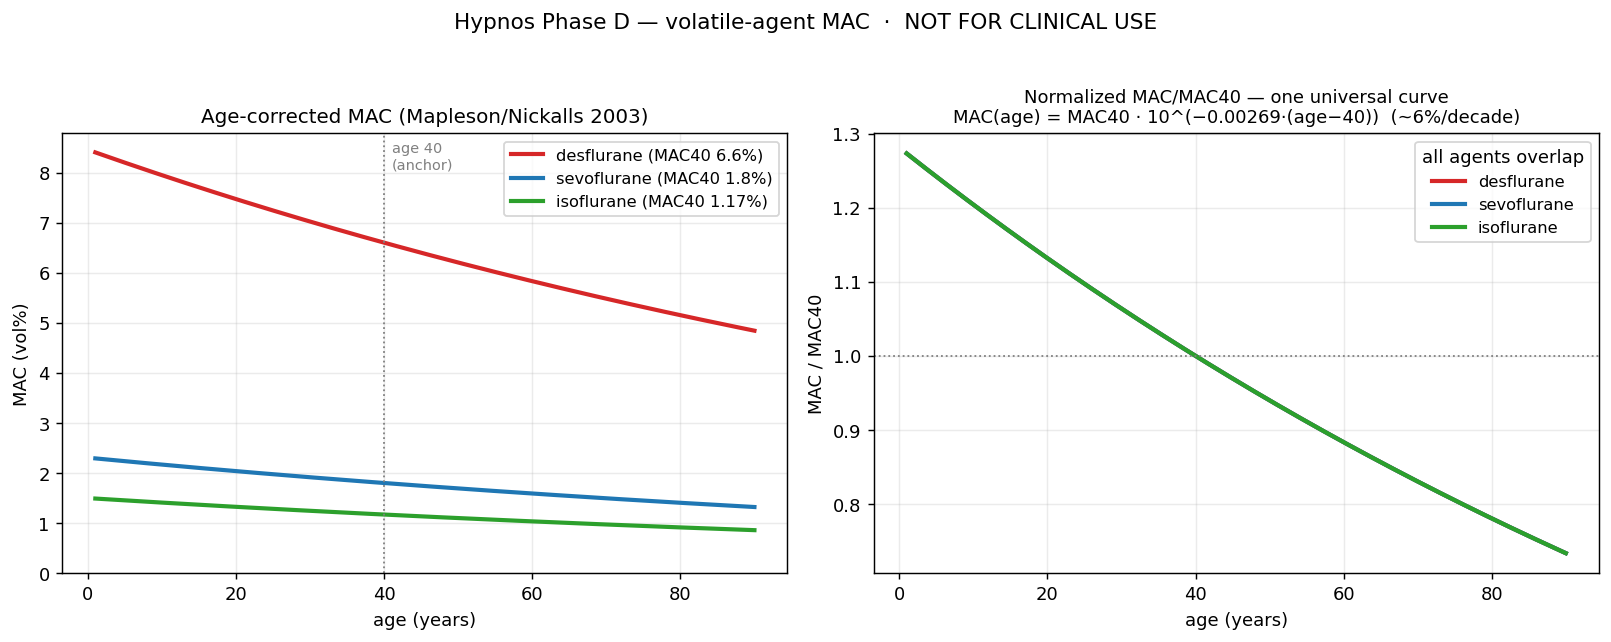
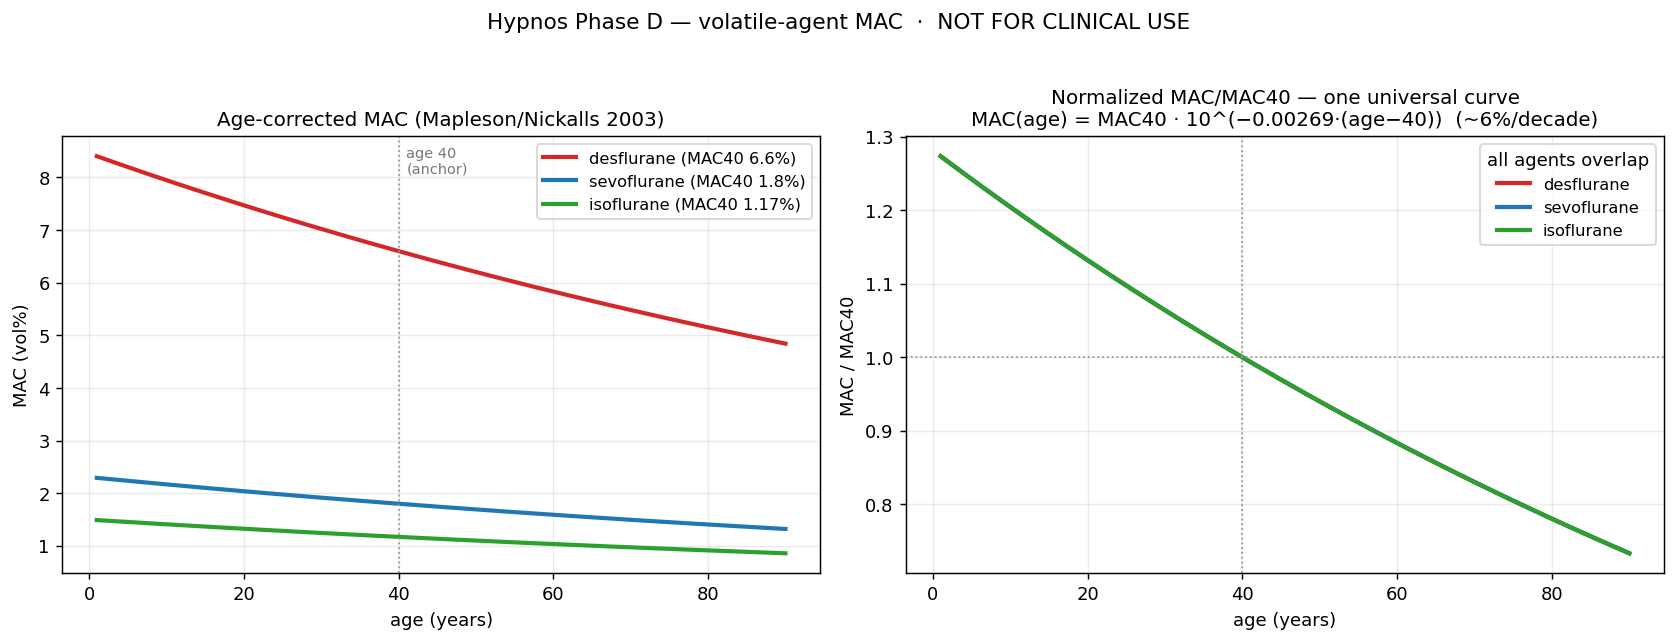
Make all README figures reproducible (fix a stale one) + wash-in figure
The spec/README claim everything is a deterministic projection of the dataset,
but scripts/regenerate.py only reproduced divergence.png — and even that was stale
(two models, not the committed three). synergy/pediatric/mac_age were orphaned
artifacts the script could not regenerate.

- regenerate.py now redraws every README figure from the live
  compare()/simulate()/kernels, in place into docs/images/. A figure can no longer
  silently rot out of sync with the data.
- Fixed a factually stale figure + claim: pediatric.png labelled
  "eleveld_2018 (kernel pending)" and the README said "only Paedfusor is
  in-envelope" — both predate the Eleveld kernel. The broad-envelope Eleveld
  (Tier A) covers a 6-year-old by design; figure + text now show both Eleveld and
  Paedfusor in-envelope, Marsh/Schnider as Tier-D pediatric extrapolations. (A
  better story: the general-purpose model correctly handles the child.)
- Dropped PK-only models (ce=0) from the effect-site divergence panel so they no
  longer draw a misleading flat line at zero.
- New washin.png — FA/FI curves + the λ→plateau mechanism — for the wash-in feature.
- test_figures.py (skips without matplotlib) regenerates all five figures to a temp
  dir and asserts each renders, enforcing the no-rot guarantee.

Full suite (160) + notebooks + export matrix + omex determinism green; dataset
validates. All five figures visually verified.

diff --git a/scripts/regenerate.py b/scripts/regenerate.py
@@ -10,7 +10,9 @@ not installed, so this script always runs the export half in CI.
 
 The dataset is the single source of truth; everything this script writes is a
 deterministic function of it (and of the dataset version). Re-running on the
-same dataset produces byte-identical exports.
+same dataset produces byte-identical exports, and every README figure is
+regenerated from the live dataset/kernels — so a figure can never silently rot
+out of sync with the data (e.g. when a kernel is implemented or a model added).
 """
 from __future__ import annotations
 
@@ -21,13 +23,25 @@ import numpy as np
 
 import hypnos
 from hypnos.export import FORMATS, bibtex, combine, csv_flat, export_model
+from hypnos.reference import alveolar_washin, greco_response_surface, mac_age_corrected
 
 ROOT = Path(__file__).resolve().parent.parent
 EXPORTS = ROOT / "exports"
-# Figures regenerate into exports/ (gitignored) so a run never clobbers the
-# curated, committed figures in docs/images/. Exports themselves are the
-# byte-deterministic reproducibility guarantee.
-IMAGES = EXPORTS / "figures"
+# Figures ARE deterministic projections of the dataset, exactly like the exports,
+# so they regenerate in place into the committed docs/images/ (the README's
+# figures) — driven by the live compare()/simulate()/kernels, never hand-drawn.
+IMAGES = ROOT / "docs" / "images"
+
+# Stable per-model colours so a model keeps its colour across figures.
+_COLORS = {
+    "eleveld_2018": "#2ca02c", "marsh_1991": "#1f77b4", "schnider_1998": "#d62728",
+    "paedfusor_2005": "#9467bd",
+}
+_DISCLAIMER = "NOT FOR CLINICAL USE"
+
+
+def _params(model) -> dict:
+    return {p.symbol: p.central for p in model.parameters}
 
 
 def regenerate_exports(ds) -> int:
@@ -53,6 +67,161 @@ def regenerate_exports(ds) -> int:
     return count
 
 
+def _fig_divergence(ds, plt) -> None:
+    """The headline: propofol effect-site, every eligible model, envelope-greyed."""
+    t = np.linspace(0, 60, 361)
+    sched = [("bolus", 0.0, "2 mg/kg"), ("infusion", 0.0, "6 mg/kg/h")]
+    fig, axes = plt.subplots(1, 2, figsize=(13, 4.8), sharey=True)
+    for ax, patient, title in [
+        (axes[0], dict(age=72, weight=60, height=162, sex="F"), "Elderly patient (72 y, 60 kg, 162 cm, F)"),
+        (axes[1], dict(age=40, weight=140, height=172, sex="M"), "Obese patient (40 y, 140 kg, 172 cm, M)"),
+    ]:
+        cmp = hypnos.compare(ds, drug="propofol", patient=patient, schedule=sched, t=t)
+        # effect-site panel: only models that actually carry a ke0 link (a PK-only
+        # model has ce ≡ 0 and would draw a misleading flat line at zero).
+        for r in sorted(cmp.included, key=lambda r: r.model_id):
+            if float(np.max(r.ce)) <= 0:
+                continue
+            name = r.model_id.split(".")[-1]
+            ax.plot(t, r.ce, color=_COLORS.get(name, "#333"), lw=2.3, label=f"{name}  (tier {r.tier})")
+        for e in cmp.excluded:
+            if float(np.max(e["result"].ce)) <= 0:
+                continue
+            name = e["model_id"].split(".")[-1]
+            reason = "out of envelope" if any("ENVELOPE" in x for x in e["reasons"]) else "greyed"
+            ax.plot(t, e["result"].ce, color="#aaa", lw=2, ls="--",
+                    label=f"{name}  (tier {e['tier']} — greyed: {reason})")
+        d = cmp.divergence.get("ce", {})
+        sub = (f"peak divergence {d['max_abs']:.1f} µg/mL ({100*d['max_rel']:.0f}%)"
+               if d else "single model in envelope")
+        ax.set_title(f"{title}\n{sub}", fontsize=11)
+        ax.set_xlabel("time (min)"); ax.legend(fontsize=8.5); ax.grid(alpha=0.25)
+    axes[0].set_ylabel("propofol effect-site conc. (µg/mL)")
+    fig.suptitle("Hypnos model-divergence view — propofol effect-site (Marsh · Schnider · Eleveld)"
+                 f"  ·  {_DISCLAIMER}", y=1.02)
+    fig.tight_layout(); fig.savefig(IMAGES / "divergence.png", dpi=130, bbox_inches="tight")
+    plt.close(fig)
+
+
+def _fig_synergy(ds, plt) -> None:
+    """Propofol-remifentanil hypnotic synergy: the time course + the Greco surface."""
+    t = np.linspace(0, 30, 181)
+    patient = dict(age=40, weight=70, height=170, sex="M")
+    prop = [("bolus", 0.0, "2 mg/kg"), ("infusion", 0.0, "6 mg/kg/h")]
+    remi = [("bolus", 0.0, "1 mcg/kg"), ("infusion", 0.0, "0.25 mcg/kg/min")]
+    alone = hypnos.simulate(ds, "hypnotics_iv.propofol.schnider_1998", patient=patient,
+                            schedule=prop, t=t, pd_model="pd_effect.propofol.bis_sigmoid")
+    ir = hypnos.simulate_interaction(ds, "interactions.propofol_remifentanil.greco_bis",
+                                     pk_a="hypnotics_iv.propofol.schnider_1998",
+                                     pk_b="opioids.remifentanil.minto_1997", patient=patient,
+                                     schedule_a=prop, schedule_b=remi, t=t)
+
+    fig, (axL, axR) = plt.subplots(1, 2, figsize=(13, 4.8))
+    axL.plot(t, alone.effect, color="#1f77b4", lw=2.3, label=f"propofol alone (tier {alone.tier})")
+    axL.plot(t, ir.effect, color="#d62728", lw=2.3, label=f"propofol + remifentanil (tier {ir.tier})")
+    axL.axhline(50, color="#888", ls=":", lw=1); axL.text(t[-1], 51, "BIS 50", ha="right", color="#888")
+    axL.set_title("Hypnotic synergy — same propofol dose, ± remifentanil", fontsize=11)
+    axL.set_xlabel("time (min)"); axL.set_ylabel("BIS index"); axL.set_ylim(0, 95)
+    axL.legend(fontsize=9); axL.grid(alpha=0.25)
+
+    sp = _params(ds["interactions.propofol_remifentanil.greco_bis"])
+    cp = np.linspace(0, 10, 160)          # propofol Ce, ug/mL
+    cr_ng = np.linspace(0, 40, 160)       # remifentanil Ce, ng/mL
+    CP, CR = np.meshgrid(cp, cr_ng)
+    bis = greco_response_surface(CP, CR / 1000.0, E0=sp["E0"], Emax=sp["Emax"],
+                                 Ce50_a=sp["Ce50_prop"], Ce50_b=sp["Ce50_remi"],
+                                 alpha=sp["alpha"], gamma=sp["gamma"])
+    cf = axR.contourf(CP, CR, bis, levels=12, cmap="viridis_r")
+    cs = axR.contour(CP, CR, bis, levels=[40, 50, 60], colors="white", linewidths=1.3)
+    axR.clabel(cs, fmt=lambda v: f"BIS {v:.0f}", fontsize=8)
+    fig.colorbar(cf, ax=axR, label="BIS index")
+    axR.set_title("Greco response surface (illustrative, tier C)", fontsize=11)
+    axR.set_xlabel("propofol Ce (µg/mL)"); axR.set_ylabel("remifentanil Ce (ng/mL)")
+    fig.suptitle(f"Hypnos Phase B — propofol–remifentanil interaction  ·  {_DISCLAIMER}", y=1.02)
+    fig.tight_layout(); fig.savefig(IMAGES / "synergy.png", dpi=130, bbox_inches="tight")
+    plt.close(fig)
+
+
+def _fig_pediatric(ds, plt) -> None:
+    """Pediatric propofol: who is in-envelope for a child, who is a Tier-D extrapolation."""
+    t = np.linspace(0, 30, 181)
+    patient = dict(age=6, weight=20, height=115, sex="M")
+    sched = [("bolus", 0.0, "2 mg/kg"), ("infusion", 0.0, "6 mg/kg/h")]
+    cmp = hypnos.compare(ds, drug="propofol", patient=patient, schedule=sched, t=t)
+    fig, ax = plt.subplots(figsize=(11, 5.4))
+    for r in sorted(cmp.included, key=lambda r: r.model_id):
+        name = r.model_id.split(".")[-1]
+        ax.plot(t, r.cp, color=_COLORS.get(name, "#2ca02c"), lw=2.6,
+                label=f"{name}  (tier {r.tier}, IN envelope)")
+    for e in cmp.excluded:
+        name = e["model_id"].split(".")[-1]
+        ped = any("PEDIATRIC" in x for x in e["reasons"])
+        tag = "pediatric extrapolation" if ped else "out of envelope"
+        ax.plot(t, e["result"].cp, lw=2, ls="--",
+                label=f"{name}  (tier {e['tier']} — greyed: {tag})")
+    ax.set_title("Hypnos Phase C — pediatric propofol (6 y, 20 kg child)\n"
+                 "Paedfusor and the broad-envelope Eleveld cover the child; the adult-only "
+                 "models are explicit Tier-D extrapolations", fontsize=11)
+    ax.set_xlabel("time (min)"); ax.set_ylabel("propofol plasma conc. (µg/mL)")
+    ax.legend(fontsize=9); ax.grid(alpha=0.25)
+    fig.text(0.5, -0.02, f"{_DISCLAIMER} — research / education / simulation only",
+             ha="center", color="#c0392b", fontsize=9)
+    fig.tight_layout(); fig.savefig(IMAGES / "pediatric.png", dpi=130, bbox_inches="tight")
+    plt.close(fig)
+
+
+def _fig_mac_age(ds, plt) -> None:
+    """Volatile MAC age-correction: absolute and the one universal normalized curve."""
+    ages = np.linspace(1, 90, 200)
+    agents = [("desflurane", "#d62728"), ("sevoflurane", "#1f77b4"), ("isoflurane", "#2ca02c")]
+    fig, (axL, axR) = plt.subplots(1, 2, figsize=(13, 4.8))
+    for name, color in agents:
+        mac40 = _params(ds[f"volatiles.{name}.mac"])["MAC40"]
+        mac = np.array([mac_age_corrected(mac40, a) for a in ages])
+        axL.plot(ages, mac, color=color, lw=2.3, label=f"{name} (MAC40 {mac40:g}%)")
+        axR.plot(ages, mac / mac40, color=color, lw=2.3, label=name)
+    for ax in (axL, axR):
+        ax.axvline(40, color="#999", ls=":", lw=1); ax.set_xlabel("age (years)"); ax.grid(alpha=0.25)
+    axL.text(41, axL.get_ylim()[1] * 0.92, "age 40\n(anchor)", color="#777", fontsize=8)
+    axL.set_ylabel("MAC (vol%)"); axL.set_title("Age-corrected MAC (Mapleson/Nickalls 2003)", fontsize=11)
+    axL.legend(fontsize=9)
+    axR.axhline(1.0, color="#999", ls=":", lw=1); axR.set_ylabel("MAC / MAC40")
+    axR.set_title("Normalized MAC/MAC40 — one universal curve\n"
+                  "MAC(age) = MAC40 · 10^(−0.00269·(age−40))  (~6%/decade)", fontsize=11)
+    axR.legend(fontsize=9, title="all agents overlap")
+    fig.suptitle(f"Hypnos Phase D — volatile-agent MAC  ·  {_DISCLAIMER}", y=1.02)
+    fig.tight_layout(); fig.savefig(IMAGES / "mac_age.png", dpi=130, bbox_inches="tight")
+    plt.close(fig)
+
+
+def _fig_washin(ds, plt) -> None:
+    """Inhalational wash-in (FA/FI): solubility sets the speed, straight from blood:gas."""
+    t = np.linspace(0, 10, 240)
+    agents = [("desflurane", "#d62728"), ("nitrous_oxide", "#9467bd"),
+              ("sevoflurane", "#1f77b4"), ("isoflurane", "#2ca02c")]
+    fig, (axL, axR) = plt.subplots(1, 2, figsize=(13, 4.8))
+    lam_pts, plat_pts = [], []
+    for name, color in agents:
+        lam = _params(ds[f"volatiles.{name}.mac"])["blood_gas"]
+        fa_fi, plateau, tau = alveolar_washin(lam, t)
+        axL.plot(t, fa_fi, color=color, lw=2.3, label=f"{name} (λ {lam:g})")
+        axL.axhline(plateau, color=color, ls=":", lw=1, alpha=0.6)
+        lam_pts.append(lam); plat_pts.append(plateau)
+        axR.scatter([lam], [plateau], color=color, s=70, zorder=3)
+        axR.annotate(name, (lam, plateau), textcoords="offset points", xytext=(8, 4), fontsize=9, color=color)
+    axL.set_title("Alveolar wash-in FA/FI(t) — single-compartment, standard ventilation", fontsize=11)
+    axL.set_xlabel("time (min)"); axL.set_ylabel("FA / FI"); axL.set_ylim(0, 0.8)
+    axL.legend(fontsize=9, title="lower λ = faster"); axL.grid(alpha=0.25)
+    order = np.argsort(lam_pts)
+    axR.plot(np.array(lam_pts)[order], np.array(plat_pts)[order], color="#888", lw=1, ls="--", zorder=1)
+    axR.set_title("Solubility sets the wash-in 'knee'\nhigher blood:gas λ → lower early FA/FI plateau", fontsize=11)
+    axR.set_xlabel("blood:gas partition coefficient λ"); axR.set_ylabel("early FA/FI plateau")
+    axR.grid(alpha=0.25)
+    fig.suptitle(f"Hypnos Phase D — inhalational wash-in (FA/FI uptake)  ·  {_DISCLAIMER}", y=1.02)
+    fig.tight_layout(); fig.savefig(IMAGES / "washin.png", dpi=130, bbox_inches="tight")
+    plt.close(fig)
+
+
 def regenerate_figures(ds) -> bool:
     try:
         import matplotlib
@@ -62,33 +231,12 @@ def regenerate_figures(ds) -> bool:
         print("figures: matplotlib not installed; skipped (pip install matplotlib)")
         return False
     IMAGES.mkdir(parents=True, exist_ok=True)
-    t = np.linspace(0, 60, 361)
-    sched = [("bolus", 0.0, "2 mg/kg"), ("infusion", 0.0, "6 mg/kg/h")]
-
-    # 1) divergence (elderly vs obese)
-    fig, axes = plt.subplots(1, 2, figsize=(12, 4.6), sharey=True)
-    colors = {"marsh_1991": "#1f77b4", "schnider_1998": "#d62728"}
-    for ax, patient, title in [
-        (axes[0], dict(age=72, weight=60, height=162, sex="F"), "Elderly (72 y, 60 kg, F)"),
-        (axes[1], dict(age=40, weight=140, height=172, sex="M"), "Obese (40 y, 140 kg, M)"),
-    ]:
-        cmp = hypnos.compare(ds, drug="propofol", patient=patient, schedule=sched, t=t)
-        for r in cmp.included:
-            ax.plot(t, r.ce, color=colors.get(r.model_id.split(".")[-1], "#333"), lw=2.2,
-                    label=f"{r.model_id.split('.')[-1]} (tier {r.tier})")
-        for e in cmp.excluded:
-            ax.plot(t, e["result"].ce, color="#bbb", lw=2, ls="--",
-                    label=f"{e['model_id'].split('.')[-1]} (tier {e['tier']}, greyed)")
-        d = cmp.divergence.get("ce", {})
-        sub = f"peak div {d.get('max_abs',0):.1f} ug/mL" if d else "single model"
-        ax.set_title(f"{title}\n{sub}", fontsize=11)
-        ax.set_xlabel("time (min)"); ax.legend(fontsize=8); ax.grid(alpha=0.25)
-    axes[0].set_ylabel("propofol effect-site (ug/mL)")
-    fig.suptitle("Hypnos model-divergence view  ·  NOT FOR CLINICAL USE", y=1.02)
-    fig.tight_layout(); fig.savefig(IMAGES / "divergence.png", dpi=130, bbox_inches="tight")
-    plt.close(fig)
-
-    print(f"figures: regenerated divergence.png in {IMAGES}/ (curated docs/images left untouched)")
+    _fig_divergence(ds, plt)
+    _fig_synergy(ds, plt)
+    _fig_pediatric(ds, plt)
+    _fig_mac_age(ds, plt)
+    _fig_washin(ds, plt)
+    print(f"figures: regenerated divergence, synergy, pediatric, mac_age, washin -> {IMAGES}/")
     return True
 
 

diff --git a/python/tests/test_figures.py b/python/tests/test_figures.py
@@ -1,0 +1,43 @@
+"""Smoke test for the figure regeneration in scripts/regenerate.py.
+
+The figures are deterministic projections of the dataset/kernels — the same
+guarantee as the exports — so they must regenerate from the live data without
+hand-editing. This exercises every figure generator (catching API drift that
+would otherwise silently rot a README figure). matplotlib lives in the
+``notebooks`` extra, so the test skips where it is not installed.
+"""
+import importlib.util
+from pathlib import Path
+
+import pytest
+
+pytest.importorskip("matplotlib")
+
+import hypnos
+
+ROOT = Path(__file__).resolve().parents[2]
+_REGEN = ROOT / "scripts" / "regenerate.py"
+
+
+def _load_regen():
+    spec = importlib.util.spec_from_file_location("hypnos_regenerate", _REGEN)
+    mod = importlib.util.module_from_spec(spec)
+    spec.loader.exec_module(mod)
+    return mod
+
+
+def test_all_figures_regenerate(tmp_path, monkeypatch):
+    import matplotlib
+    matplotlib.use("Agg")
+
+    regen = _load_regen()
+    monkeypatch.setattr(regen, "IMAGES", tmp_path)   # never clobber the committed figures
+    ds = hypnos.load()
+    assert regen.regenerate_figures(ds) is True
+
+    expected = {"divergence.png", "synergy.png", "pediatric.png", "mac_age.png", "washin.png"}
+    produced = {p.name for p in tmp_path.glob("*.png")}
+    assert expected <= produced
+    # every figure is a non-trivial PNG (renders something, not an empty file)
+    for name in expected:
+        assert (tmp_path / name).stat().st_size > 5000

diff --git a/README.md b/README.md
@@ -79,12 +79,13 @@ Phase C widens coverage beyond the propofol/remifentanil core — a new drug cla
 
 ![Pediatric propofol model divergence](docs/images/pediatric.png)
 
-For a 6-year-old, 20 kg child, only Paedfusor is in-envelope. Marsh and Schnider are greyed out and explicitly labeled *pediatric extrapolations* — and the figure shows why that matters: the adult models, if you ignored the label, would predict roughly half (Schnider) to 1.5× (Marsh) the plasma concentration of the validated pediatric model. The labeling is symmetric: Paedfusor used in an adult is flagged as a pediatric-model extrapolation, and a 90-year-old outside dexmedetomidine's 18–70 y range is labeled a *geriatric extrapolation*.
+For a 6-year-old, 20 kg child, **two** models are in-envelope and they tell a clean story: the dedicated pediatric **Paedfusor** (Tier B), and the broad-envelope general-purpose **Eleveld** (Tier A), which is built to span neonate→elderly and so correctly *covers the child by design* — the payoff of a wide derivation envelope. The two adult-only models, **Marsh and Schnider**, are greyed out and explicitly labeled *pediatric extrapolations*: an adult model used in a child is not predictive, so it is floored to Tier D. The labeling is symmetric: Paedfusor used in an adult is flagged as a pediatric-model extrapolation, and a 90-year-old outside dexmedetomidine's 18–70 y range is labeled a *geriatric extrapolation*.
 
 ```text
 $ hypnos compare --drug propofol --age 6 --weight 20 --height 115 --sex M
-included (1):
-  - hypnotics_iv.propofol.paedfusor_2005       tier B  ...
+included (2):
+  - hypnotics_iv.propofol.eleveld_2018         tier A  Ce peak 2.474 ug/mL   # broad envelope covers the child
+  - hypnotics_iv.propofol.paedfusor_2005       tier B  Cp peak 4.363 ug/mL   # dedicated pediatric model
 excluded for envelope (2):
   - hypnotics_iv.propofol.marsh_1991      tier D  (... PEDIATRIC EXTRAPOLATION: age 6 y is below the
         model's derivation range (>= 16 y); an adult model used in a child is not predictive -> Tier D)
@@ -115,6 +116,10 @@ hypnos.mac(ds, "volatiles.sevoflurane.mac", age=75, end_tidal_pct=1.2, n2o_end_t
 ```text
 FA/FI(t) = plateau · (1 − e^(−t/τ)),   plateau = V̇_A/(V̇_A + λ·Q̇),   τ = FRC/(V̇_A + λ·Q̇)
 ```
+
+![Inhalational wash-in (FA/FI)](docs/images/washin.png)
+
+The left panel is the FA/FI wash-in; the right makes the mechanism explicit — early plateau falls monotonically as blood:gas `λ` rises. Both are computed from the curated coefficients alone.
 
 ```text
 $ hypnos washin

diff --git a/CHANGELOG.md b/CHANGELOG.md
@@ -8,6 +8,26 @@ version is pinned in `dataset/VERSION` and stamped into every export as
 
 ## [Unreleased]
 
+### Reproducible figures (fix a stale one) + wash-in visualization (2026-06-09)
+- **`scripts/regenerate.py` now regenerates every README figure** from the live
+  dataset/kernels, in place into `docs/images/`. Previously only `divergence.png`
+  was reproducible (and even that was stale — two models, not the committed three);
+  `synergy.png`, `pediatric.png`, and `mac_age.png` were orphaned artifacts the
+  script could not reproduce, contradicting the spec's "everything is a
+  deterministic projection of the dataset" claim.
+- **Fixed a factually stale figure + README claim:** `pediatric.png` labelled
+  `eleveld_2018 (kernel pending)` and the README said "only Paedfusor is
+  in-envelope" — both predate the Eleveld kernel. The broad-envelope Eleveld (Tier
+  A) in fact *covers a 6-year-old by design*; the figure and text now show both
+  Eleveld and Paedfusor in-envelope, with the adult-only Marsh/Schnider as Tier-D
+  pediatric extrapolations. A figure can no longer silently rot out of sync: it is
+  redrawn from `compare()`/`simulate()`, so implementing a kernel updates every
+  figure that depends on it.
+- **New `washin.png`** — the FA/FI wash-in curves + the λ→plateau mechanism, the
+  visual for the wash-in feature.
+- Smoke test (`test_figures.py`, skips without matplotlib) regenerates all five
+  figures to a temp dir and asserts each renders, enforcing the no-rot guarantee.
+
 ### Inhalational wash-in (FA/FI uptake) (2026-06-09)
 - **`hypnos.washin` / `washin_comparison` + `hypnos washin` CLI** — the volatile
   *uptake* relation the spec names (§3/§6, Phase D) but that was the one Phase-D item
